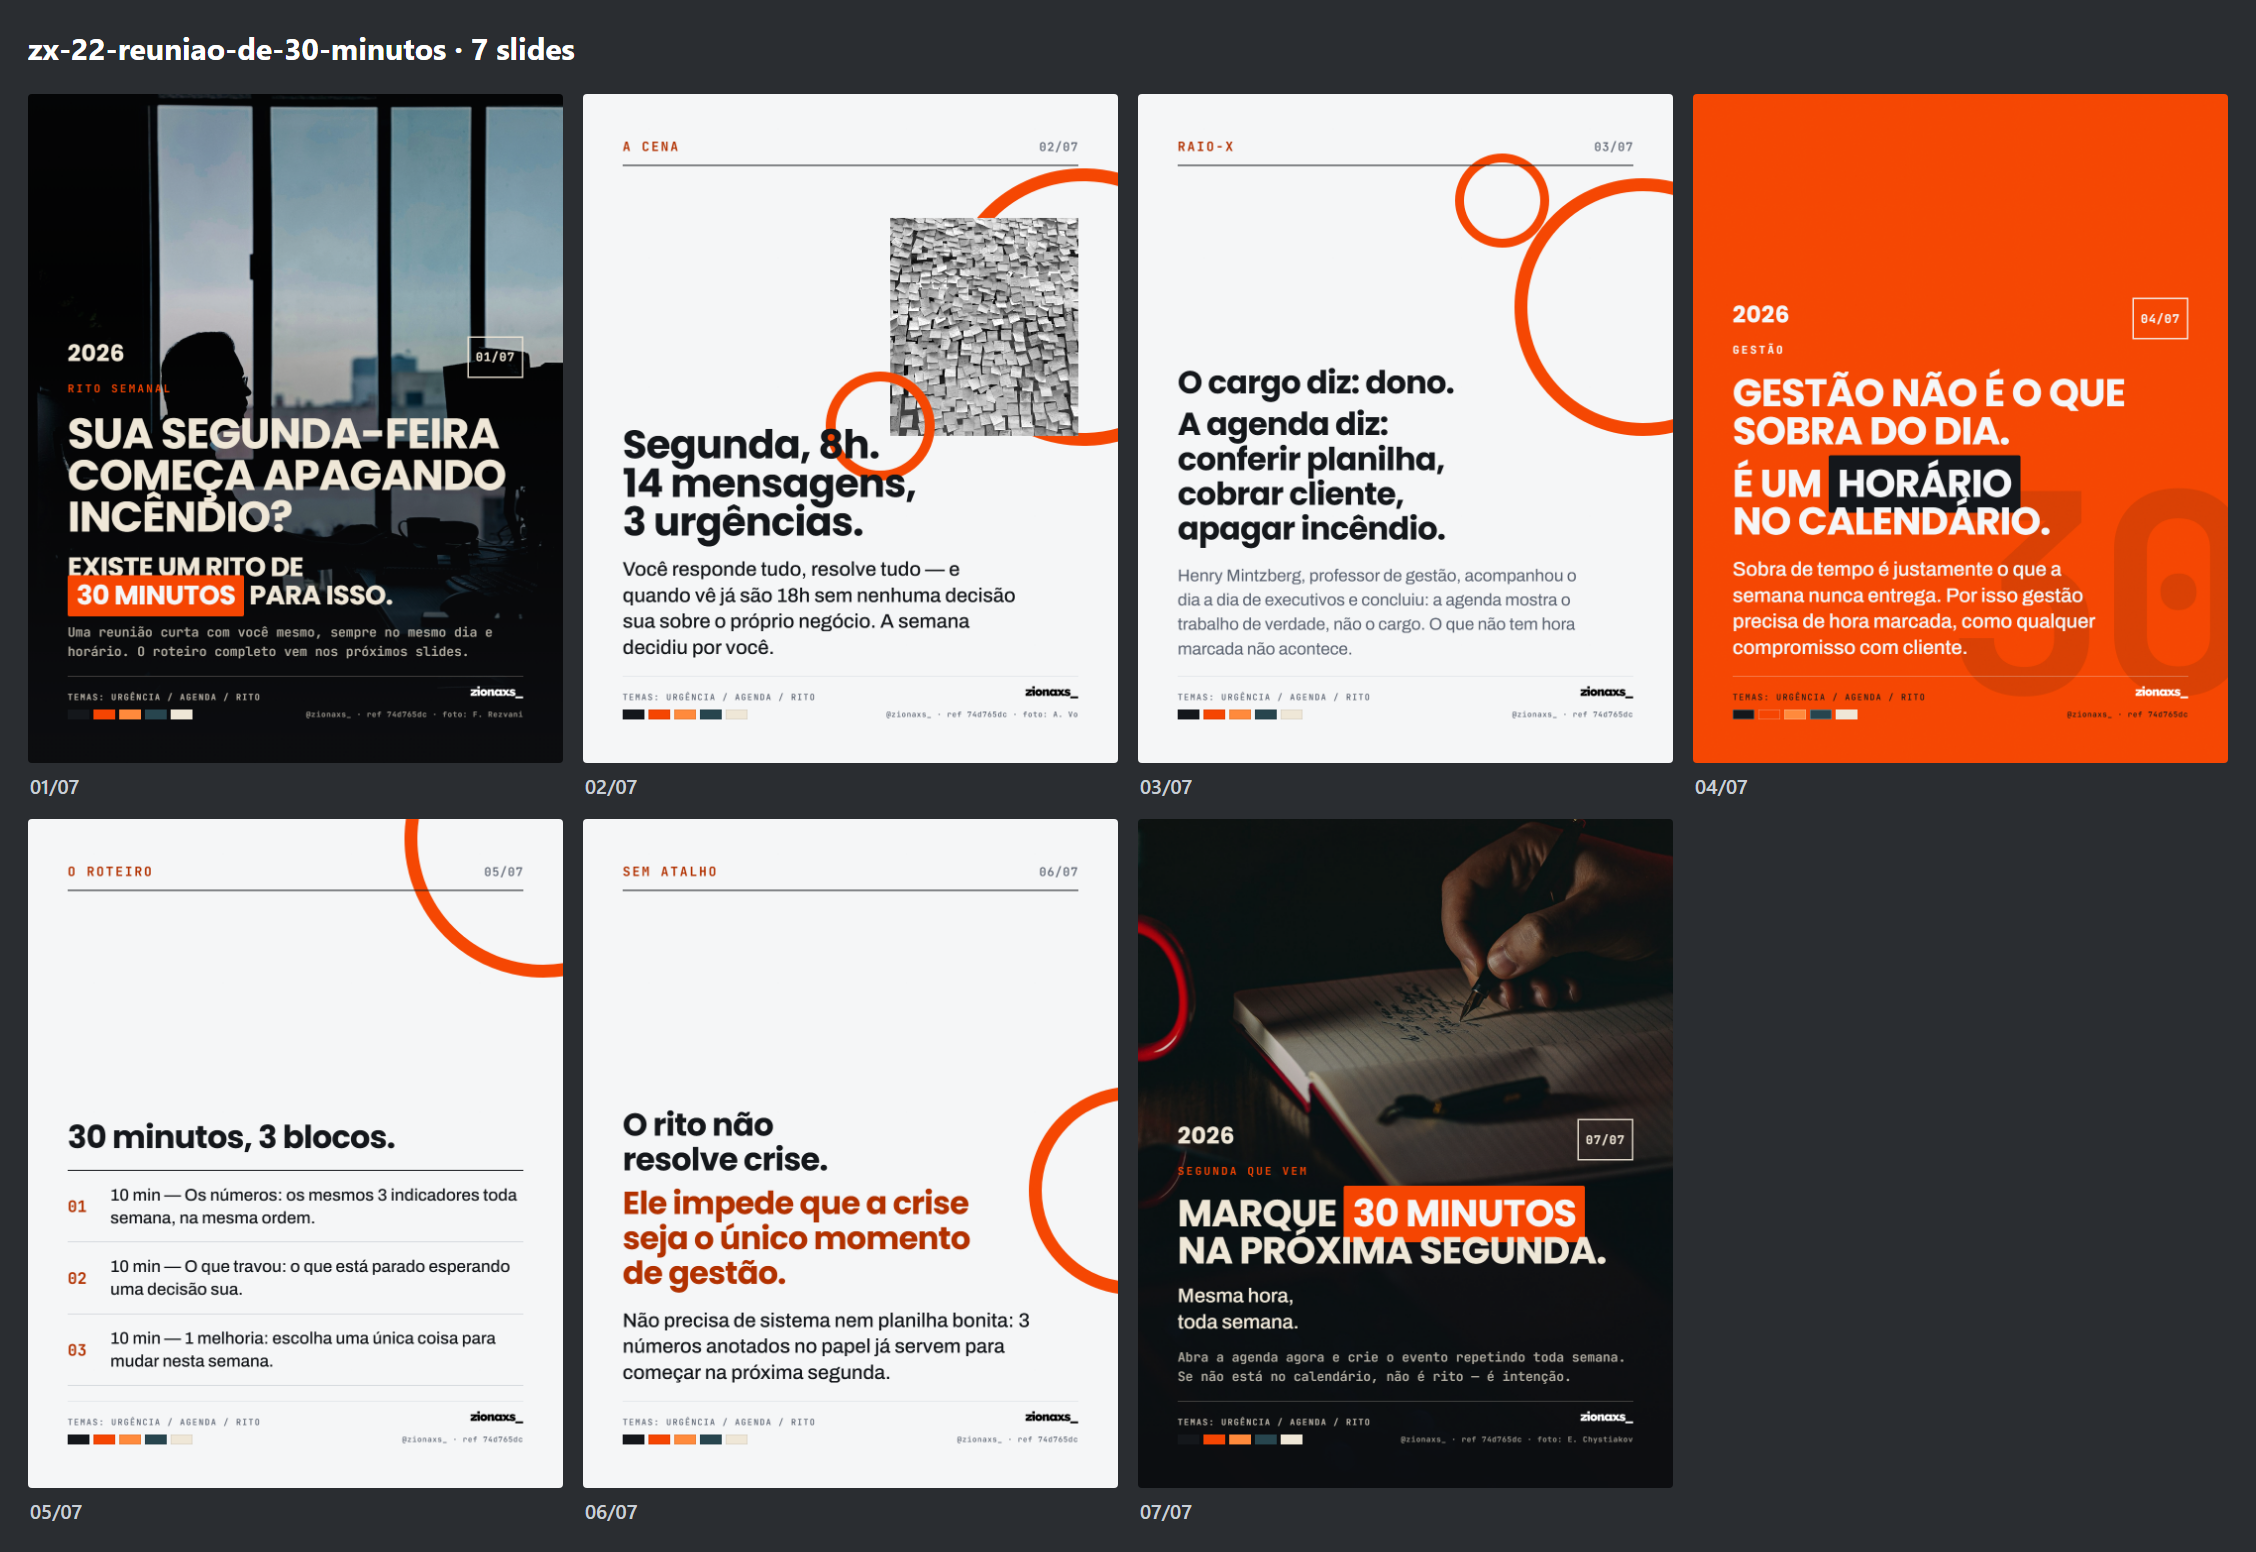
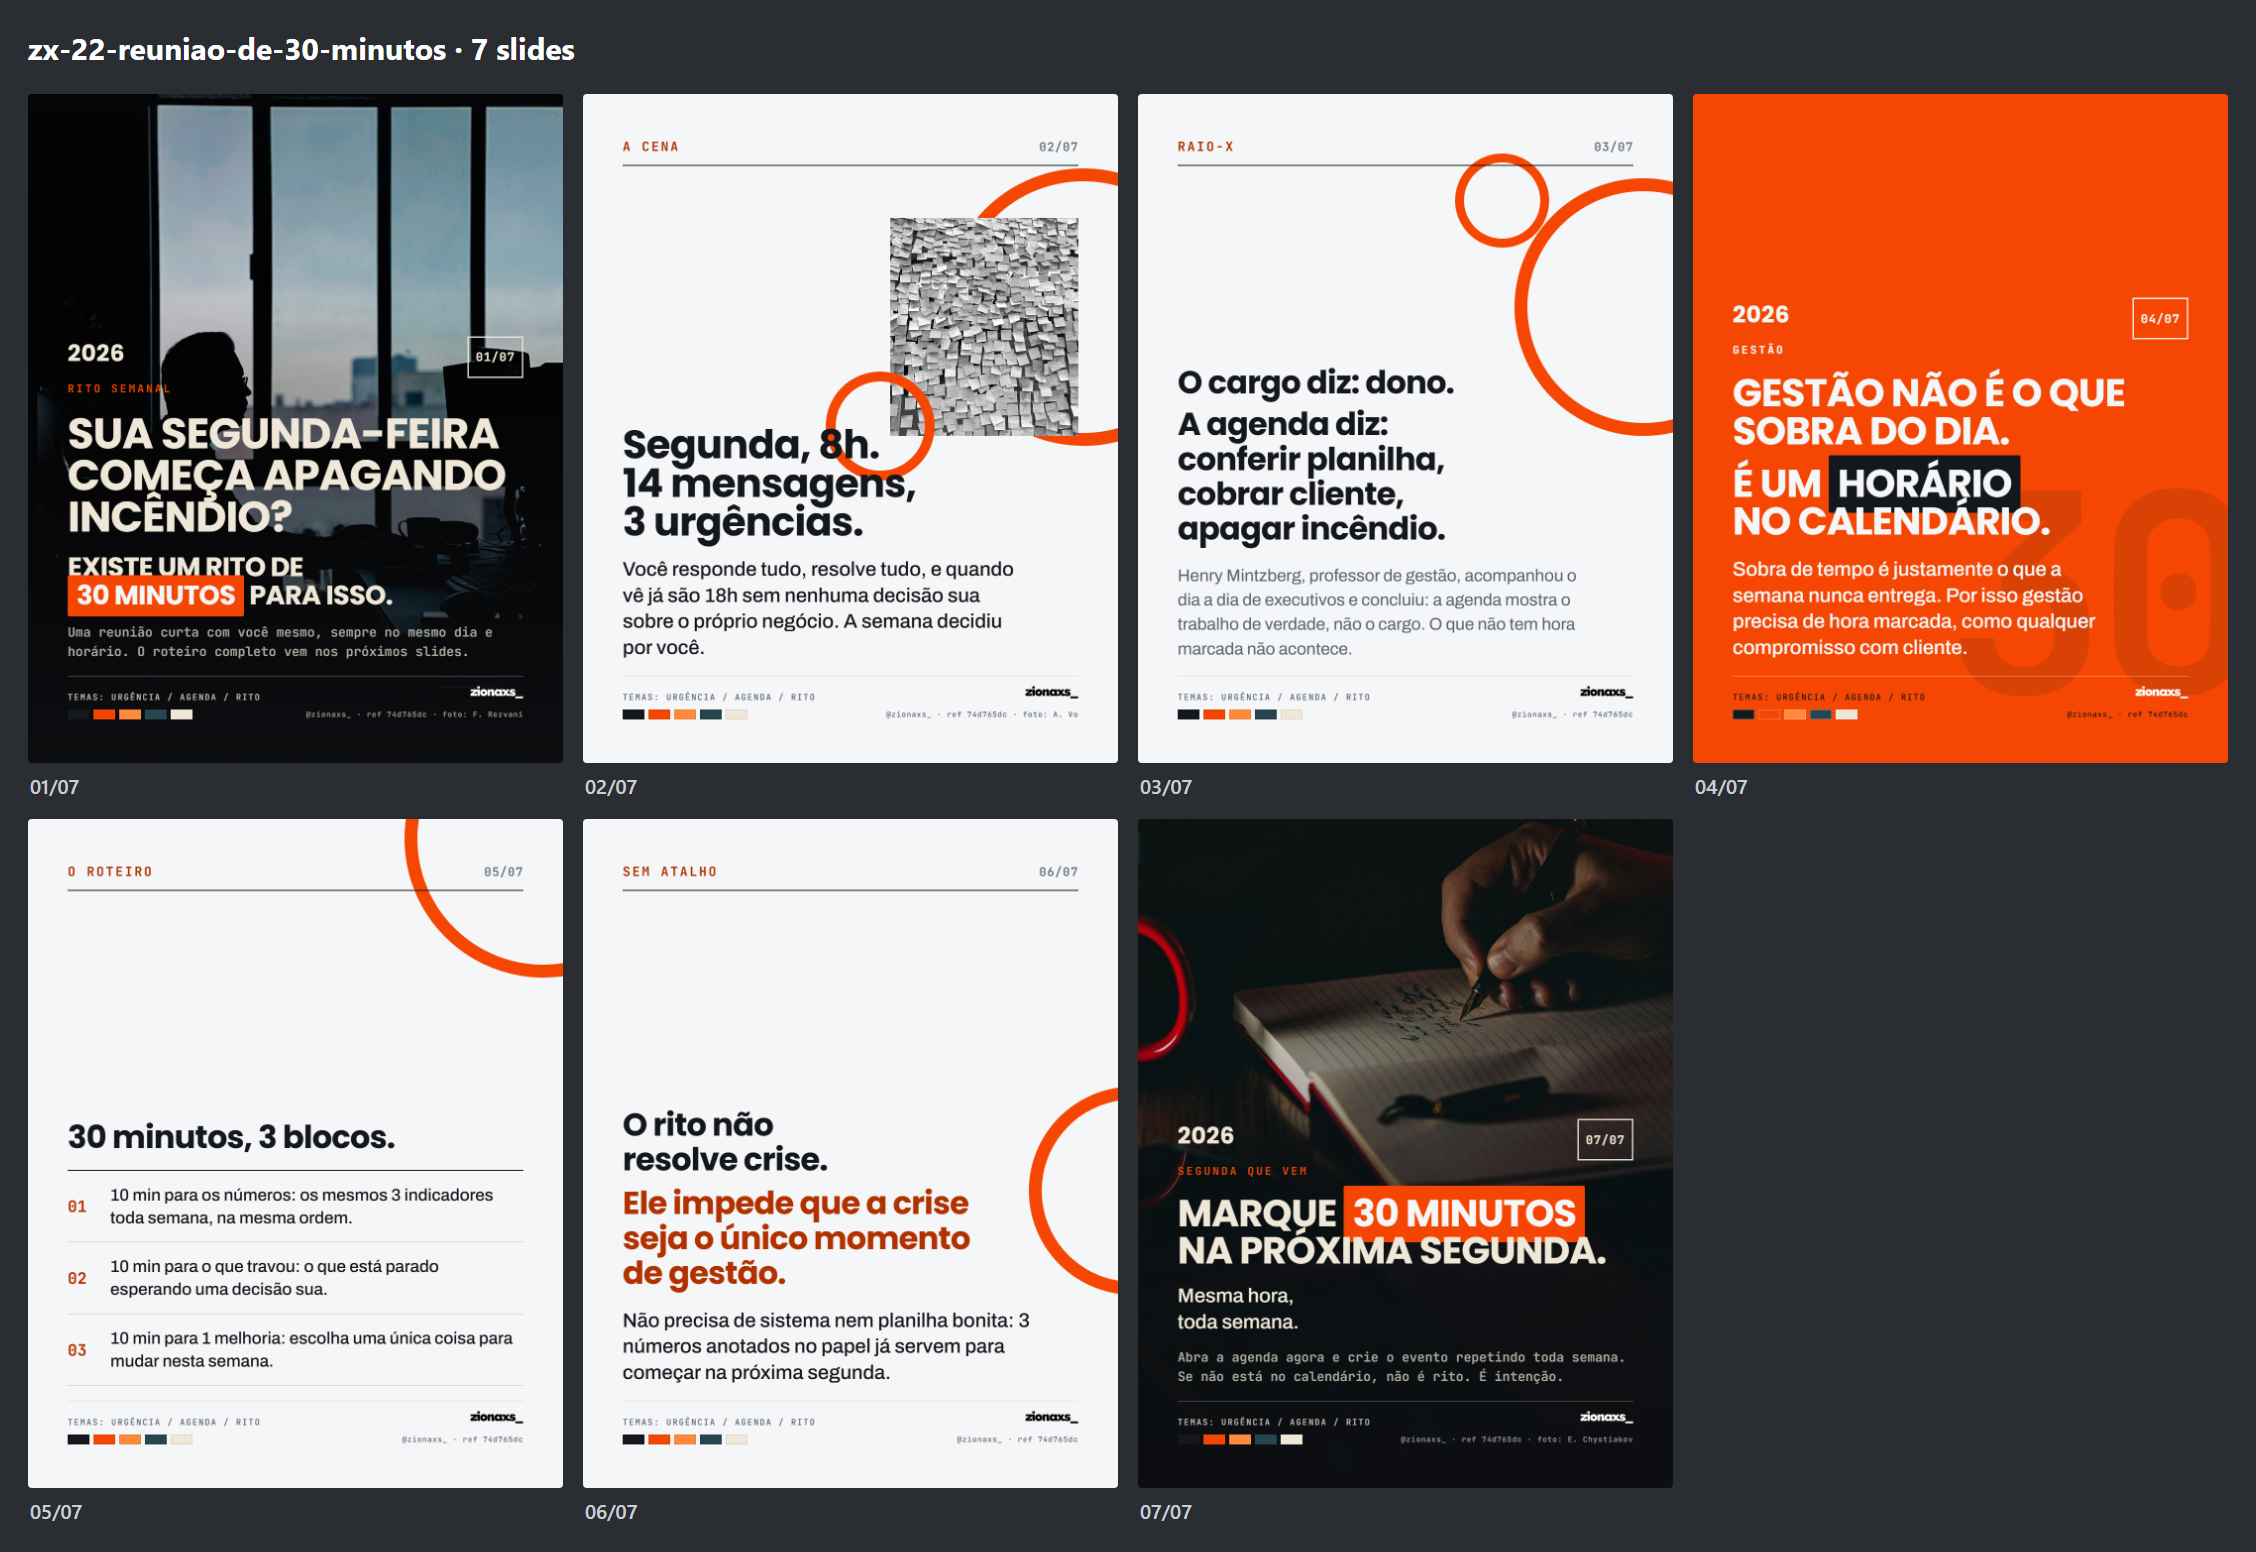
padrao: copy da Zionaxs oficializada e zx-22 aprovada
Padrao de copy elevado a padrao da marca (vale para todo texto, nao so
carrossel) e documentado em campanhas/zionaxs/padrao-de-copy.md. Duas
regras novas do Fabiano aplicadas: sem travessao e sem contracoes
informais tipo num/numa. Legenda reescrita na mesma pegada, com a fonte
em parafrase fiel em vez de citacao literal em ingles.

zx-22 regenerada (12/12 gates) e aprovada no digest ebac306b.

Changed region(s): [[0.0621, 0.7423, 0.2172, 0.866], [0.2793, 0.3402, 0.4654, 0.433], [0.6516, 0.866, 0.6826, 0.8969]]

diff --git a/sistema/workspace/pieces/zx-22-reuniao-de-30-minutos/out/compiled.html b/sistema/workspace/pieces/zx-22-reuniao-de-30-minutos/out/compiled.html
@@ -206,7 +206,7 @@ body{font-family:Archivo,sans-serif;-webkit-font-smoothing:antialiased;font-kern
   <div class="hd php"><span class="pk2">A cena</span><span class="pp2">02/07</span></div>
   <div class="pstack"><div class="pbody">
 <p class="pt1" style="font-size:80px">Segunda, 8h.<br>14 mensagens,<br>3 urgências.</p>
-<p class="psub" style="margin-top:30px;max-width:820px">Você responde tudo, resolve tudo — e quando vê já são 18h sem nenhuma decisão sua sobre o próprio negócio. A semana decidiu por você.</p>
+<p class="psub" style="margin-top:30px;max-width:820px">Você responde tudo, resolve tudo, e quando vê já são 18h sem nenhuma decisão sua sobre o próprio negócio. A semana decidiu por você.</p>
   </div></div>
   <div class="ft pfoot">
     <div class="pf1"><span class="ptemas">Temas: Urgência / Agenda / Rito</span><span class="pwm"><img src="../../../brand/logo/zionaxs-black.png" alt=""></span></div>
@@ -264,9 +264,9 @@ body{font-family:Archivo,sans-serif;-webkit-font-smoothing:antialiased;font-kern
   <div class="pstack"><div class="pbody">
 <p class="pt2">30 minutos, 3 blocos.</p>
 <div class="preg">
-    <div class="l"><span class="n">01</span><span class="t">10 min — Os números: os mesmos 3 indicadores toda semana, na mesma ordem.</span></div>
-    <div class="l"><span class="n">02</span><span class="t">10 min — O que travou: o que está parado esperando uma decisão sua.</span></div>
-    <div class="l"><span class="n">03</span><span class="t">10 min — 1 melhoria: escolha uma única coisa para mudar nesta semana.</span></div>
+    <div class="l"><span class="n">01</span><span class="t">10 min para os números: os mesmos 3 indicadores toda semana, na mesma ordem.</span></div>
+    <div class="l"><span class="n">02</span><span class="t">10 min para o que travou: o que está parado esperando uma decisão sua.</span></div>
+    <div class="l"><span class="n">03</span><span class="t">10 min para 1 melhoria: escolha uma única coisa para mudar nesta semana.</span></div>
 </div>
   </div></div>
   <div class="ft pfoot">
@@ -306,7 +306,7 @@ body{font-family:Archivo,sans-serif;-webkit-font-smoothing:antialiased;font-kern
   </div><div class="pbody up">
 <p class="pt1" style="font-size:76px">Marque <span class="phl">30 minutos</span><br>na próxima segunda.</p>
 <p class="psub" style="margin-top:28px">Mesma hora,<br>toda semana.</p>
-<p class="pnote" style="margin-top:24px">Abra a agenda agora e crie o evento repetindo toda semana. Se não está no calendário, não é rito — é intenção.</p>
+<p class="pnote" style="margin-top:24px">Abra a agenda agora e crie o evento repetindo toda semana. Se não está no calendário, não é rito. É intenção.</p>
   </div></div>
   <div class="ft pfoot">
     <div class="pf1"><span class="ptemas">Temas: Urgência / Agenda / Rito</span><span class="pwm"><img src="../../../brand/logo/zionaxs-white.png" alt=""></span></div>

diff --git a/sistema/workspace/pieces/zx-22-reuniao-de-30-minutos/out/legenda-alt.md b/sistema/workspace/pieces/zx-22-reuniao-de-30-minutos/out/legenda-alt.md
@@ -2,31 +2,31 @@
 
 ## Legenda
 
-A segunda-feira que começa apagando incêndio não é falta de disciplina. É gestão dependendo de sobra de tempo — e sobra é a única coisa que a semana nunca entrega.
+A segunda-feira que começa apagando incêndio não é falta de disciplina. É gestão dependendo de sobra de tempo, e sobra é justamente o que a semana nunca entrega.
 
-Henry Mintzberg escreveu em 1990: "If you ask managers what they do, they will most likely tell you that they plan, organize, coordinate, and control…". Em tradução editorial livre: pergunte a um gestor o que ele faz e ele dirá que planeja, organiza e coordena; observe o dia dele e a agenda contará outra história. A agenda é o raio-X da gestão.
+Henry Mintzberg, professor de gestão, estudou o dia a dia de executivos e publicou o resultado na Harvard Business Review em 1990. A conclusão: pergunte a um gestor o que ele faz e ele dirá que planeja, organiza e coordena. Olhe a agenda dele e a resposta é outra. A agenda mostra o trabalho de verdade.
 
-O roteiro dos 30 minutos tem 3 blocos de 10: os mesmos 3 números toda semana, na mesma ordem — comparáveis, não perfeitos; as travas, ou seja, o que está parado esperando decisão; e uma única melhoria para a semana. Pauta fixa é o que transforma reunião em rito: o custo de decidir o que discutir cai a zero.
+O rito de 30 minutos tem 3 blocos de 10. Primeiro os números: os mesmos 3 indicadores toda semana, na mesma ordem, porque só assim dá para comparar. Depois o que travou: tudo que está parado esperando uma decisão sua. Por último 1 melhoria: uma única coisa para mudar nesta semana. Pauta fixa é o que transforma reunião em rito, porque acaba com o custo de decidir o que discutir.
 
-O rito não substitui conversa nem resolve crise — ele impede que a crise seja o único momento de gestão. E dá para começar sem sistema: 3 números anotados à mão valem mais que um dashboard adiado.
+O rito não substitui conversa nem resolve crise. Ele impede que a crise seja o único momento de gestão. E dá para começar hoje sem sistema nenhum: 3 números anotados no papel valem mais que um painel que você adia há meses.
 
-Marque 30 minutos na agenda da próxima segunda. Mesma hora, toda semana. Se não está no calendário, não é rito — é intenção.
+Marque 30 minutos na agenda da próxima segunda. Mesma hora, toda semana. Se não está no calendário, não é rito. É intenção.
 
-Referência: Henry Mintzberg, The Manager's Job: Folklore and Fact, Harvard Business Review, mar.–abr. 1990. Citação literal verificada; tradução editorial livre marcada como tal. O roteiro é método proposto; a pauta exata dos três números varia por negócio.
+Referência: Henry Mintzberg, The Manager’s Job: Folklore and Fact, Harvard Business Review, março a abril de 1990. A legenda traz paráfrase fiel com autor, obra e ano, não citação literal. O roteiro é método proposto. A pauta exata dos 3 números varia por negócio.
 
 ## Alt text por slide
 
 **01/07** · Slide 1 de 7. Sua segunda-feira começa apagando incêndio? Existe um rito de 30 minutos para isso: uma reunião curta com você mesmo, sempre no mesmo dia e horário, com o roteiro completo nos próximos slides. Fotografia escura de uma pessoa em silhueta sentada à mesa diante da janela ao amanhecer.
 
-**02/07** · Slide 2 de 7. Segunda-feira, 8h: 14 mensagens e 3 urgências. Você responde tudo, resolve tudo, e quando vê já são 18h sem nenhuma decisão sua sobre o próprio negócio — a semana decidiu por você. Papel claro com fotografia em preto e branco de uma parede inteira coberta de recados adesivos.
+**02/07** · Slide 2 de 7. Segunda-feira, 8h: 14 mensagens e 3 urgências. Você responde tudo, resolve tudo, e quando vê já são 18h sem nenhuma decisão sua sobre o próprio negócio. A semana decidiu por você. Papel claro com fotografia em preto e branco de uma parede inteira coberta de recados adesivos.
 
 **03/07** · Slide 3 de 7. O cargo diz dono; a agenda diz conferir planilha, cobrar cliente, apagar incêndio. Henry Mintzberg, professor de gestão, acompanhou o dia a dia de executivos e concluiu que a agenda mostra o trabalho de verdade, não o cargo: o que não tem hora marcada não acontece.
 
-**04/07** · Slide 4 de 7. Gestão não é o que sobra do dia; é um horário no calendário. Sobra de tempo é justamente o que a semana nunca entrega, por isso gestão precisa de hora marcada como qualquer compromisso com cliente. Campo laranja chapado com o número 30 gigante em marca dágua.
+**04/07** · Slide 4 de 7. Gestão não é o que sobra do dia; é um horário no calendário. Sobra de tempo é justamente o que a semana nunca entrega, por isso gestão precisa de hora marcada como qualquer compromisso com cliente. Campo laranja chapado com o número 30 gigante em marca d'água.
 
 **05/07** · Slide 5 de 7. O roteiro dos 30 minutos em 3 blocos de 10: os números, com os mesmos 3 indicadores toda semana e na mesma ordem; o que travou, ou seja, o que está parado esperando uma decisão sua; e 1 melhoria, uma única coisa para mudar nesta semana. Este é o quadro para salvar.
 
 **06/07** · Slide 6 de 7. O rito não resolve crise; ele impede que a crise seja o único momento de gestão. Não precisa de sistema nem planilha bonita: 3 números anotados no papel já servem para começar na próxima segunda. O limite da dica declarado na própria peça.
 
-**07/07** · Slide 7 de 7. Marque 30 minutos na próxima segunda, mesma hora, toda semana. Abra a agenda agora e crie o evento repetindo toda semana: se não está no calendário, não é rito, é intenção. Fotografia escura de mãos escrevendo em um caderno fecha a peça.
+**07/07** · Slide 7 de 7. Marque 30 minutos na próxima segunda, mesma hora, toda semana. Abra a agenda agora e crie o evento repetindo toda semana: se não está no calendário, não é rito. É intenção. Fotografia escura de mãos escrevendo em um caderno fecha a peça.
 

diff --git a/campanhas/zionaxs/padrao-de-copy.md b/campanhas/zionaxs/padrao-de-copy.md
@@ -1,0 +1,28 @@
+# Padrão de copy da Zionaxs
+
+Aprovado por Fabiano em 29/08/2026, com a peça zx-22 como modelo: "essa copy é para qualquer coisa que você for fazer... está fácil de entender, bem explicativa e interessante."
+
+Este padrão vale para **todo texto da marca**: slide de carrossel, legenda, roteiro de vídeo, site, proposta e e-mail. Não é padrão de uma campanha.
+
+## Por que
+
+O objetivo da conta é ganhar público novo. Quem precisa entender é quem ainda não é do ramo. Copy aforística soa inteligente e não converte. Copy que explica ensina, e ensinar prende.
+
+## As 6 regras
+
+1. **Explicar, não apenas afirmar.** Toda frase de efeito vem seguida do porquê. Quem for citado é apresentado ao leitor ("Henry Mintzberg, professor de gestão"), nunca um nome solto esperando reconhecimento.
+2. **Números em algarismo.** "14 mensagens, 3 urgências", "3 blocos de 10", "1 melhoria". Nunca por extenso.
+3. **Jargão de nicho vira cena universal.** "conferência de lançamento" virou "conferir planilha, cobrar cliente, apagar incêndio".
+4. **Proibido o travessão e o traço.** Têm cara de texto de máquina. Use ponto, vírgula, dois-pontos ou ponto e vírgula.
+5. **Proibido "num", "numa", "nuns", "numas"** e contrações informais equivalentes. Escreva "em um", "em uma".
+6. **CTA com o passo, não com o conceito.** "Abra a agenda agora e crie o evento repetindo toda semana", não "priorize sua gestão".
+
+## Legenda
+
+Mesma pegada da copy: simples, explicativa, fácil de entender e **não muito grande**. Mesmas 6 regras.
+
+Fonte citada entra como paráfrase fiel com autor, obra e ano. Sem citação literal em inglês: afasta o leitor leigo e não acrescenta credibilidade que a referência completa já não dê. A referência completa fica em `caption_sources`.
+
+## Como isso é verificado
+
+A copy é validada contra `approved_visible_copy` no contrato da peça, e os 12 gates medem o resultado no pixel. As regras 4 e 5 não têm gate automático ainda: são verificadas por varredura no contrato antes de gerar.

diff --git a/campanhas/zionaxs/direcao-visual/README.md b/campanhas/zionaxs/direcao-visual/README.md
@@ -1,4 +1,6 @@
-# Estilo visual oficial — pôster editorial Zionaxs
+# Estilo visual oficial: pôster editorial Zionaxs
+
+> O par deste documento é [`../padrao-de-copy.md`](../padrao-de-copy.md), o padrão de texto da marca. Design e copy foram aprovados juntos em 29/08/2026 e valem para tudo que a Zionaxs publica.
 
 Aprovado por Fabiano em 29/08/2026: "É exatamente esse estilo que eu quero. Vamos manter esse design sempre."
 Este diretório é a referência permanente. `estilo-poster-editorial.html` é o protótipo fiel; os PNGs são a prova renderizada em 1080×1350.
